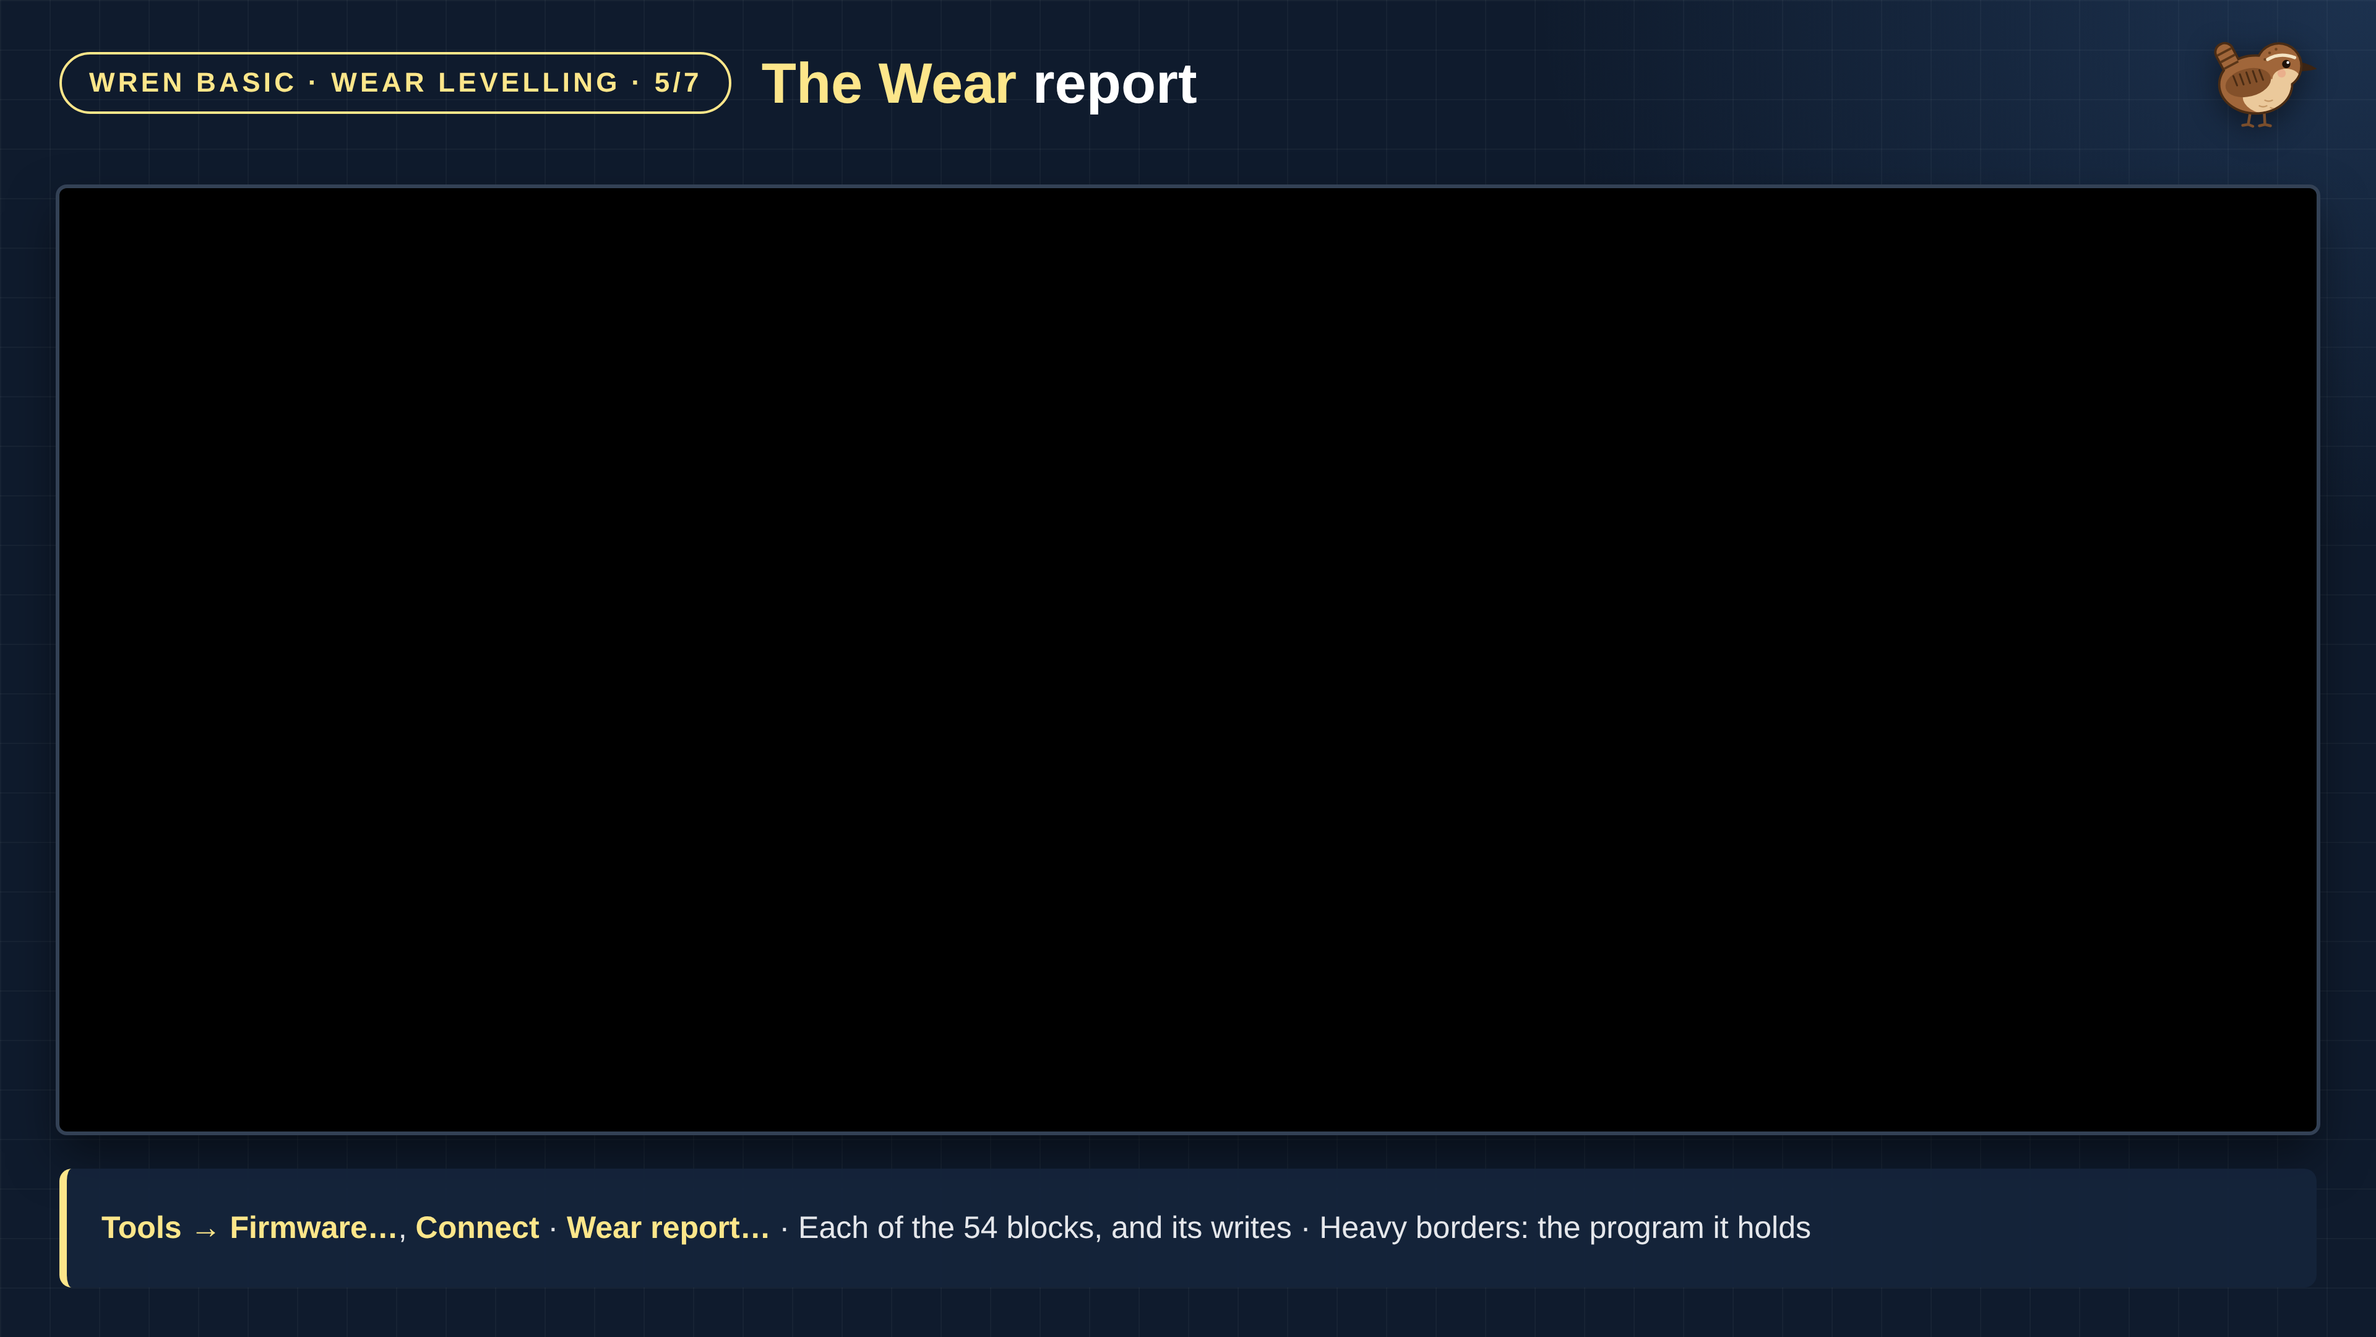
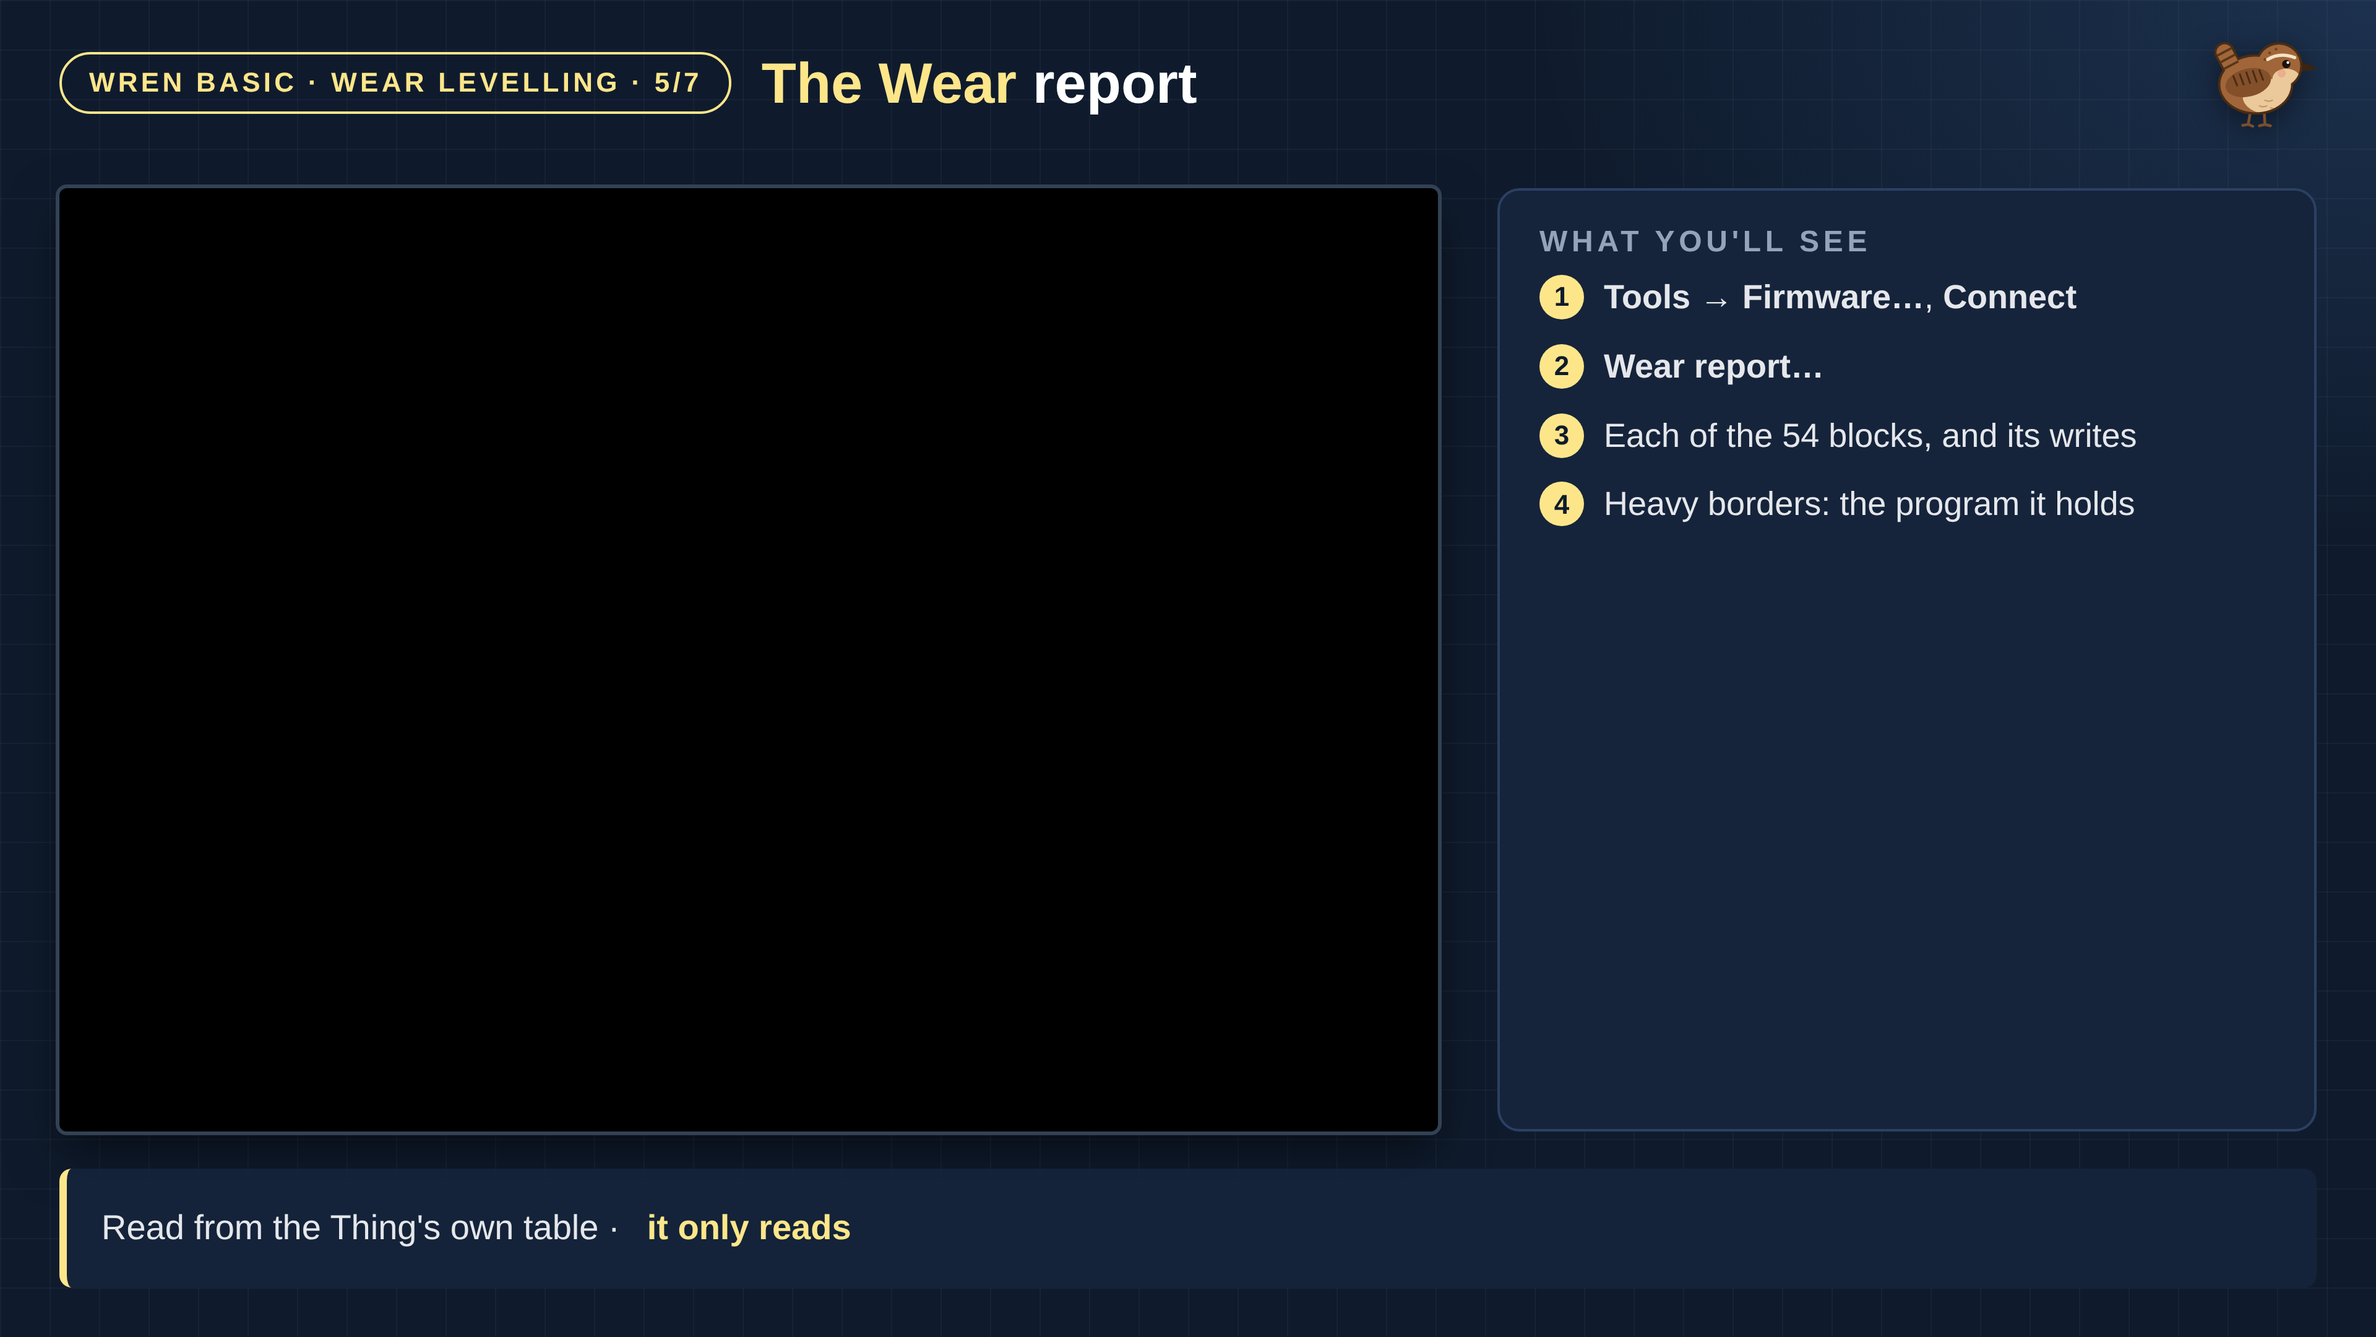
Videos: cut-aways with nothing to film keep the usual console frame and drop the camera frame, the card taking the right (videos 3, 4 and 5; the guide)
Claude-Session: https://claude.ai/code/session_01PM169opcHumrd8MpGp9RPP

Changed region(s): [[0.5938, 0.1241, 1.0, 0.8685], [0.0312, 0.8995, 0.75, 0.9306]]

diff --git a/docs/Videos/Infographics/Wren_04/Wren_04_03b_InsideMove.html b/docs/Videos/Infographics/Wren_04/Wren_04_03b_InsideMove.html
@@ -20,8 +20,8 @@
     - The scene: docs/Videos/Wren_04_Emulator.md. "In Move, 1 call deep": the Now panel's own
       wording (src/Wren/MainWindow.axaml.cs, NowDescription). Stopped on line 64, F11 goes into
       Taken at line 114 (2 calls deep); two F10s later c = 184, cell (29, 5).
-  A backdrop for OBS, for a scene on the emulator alone: one console frame the full width
-  (48, 152; 1824 x 762), black inside; no camera frame. What to do is in the strip.
+  A backdrop for OBS, for a scene with nothing worth filming: the console frame (48, 152; up to
+  1114 x 762), black inside, as on every backdrop; no camera frame, so the card takes the right.
 -->
 <html lang="en">
 <head>
@@ -129,8 +129,8 @@
   code { font-family: "DejaVu Sans Mono", Consolas, monospace; color: var(--basic); font-size: 22px; }
   .strip { position: absolute; left: 48px; right: 48px; top: 944px; height: 96px; display: flex; align-items: center; gap: 22px; padding: 0 28px; background: rgba(21, 36, 59, 0.92); border-left: 6px solid var(--gold); border-radius: 10px; font-size: 28px; }
   .strip b { color: var(--gold); }
-  .frame.wide { left: 48px; top: 152px; width: 1824px; height: 762px; }
-  .strip.steps { font-size: 25px; flex-wrap: wrap; gap: 10px 18px; line-height: 1.3; }
+  .see.tall { top: 152px; height: 762px; }
+  .see.tall li { font-size: 27px; margin-bottom: 22px; }
 </style>
 </head>
 <body>
@@ -193,8 +193,11 @@
   <circle cx="189.5" cy="102.5" r="3" fill="#FFFFFF" />
  </g>
 </svg><!--/WREN--></div>
-<div class="frame wide"></div>
-<div class="strip steps"><span>A breakpoint on line 68: <code>IF s &lt; bestScore</code> · <b>Variables</b>: <code>d</code>, <code>nx</code>, <code>ny</code>, <code>s</code>, <code>best</code> · <kbd>F5</kbd>: the next way, the next score · Line 64, <kbd>F11</kbd>: into <code>Taken</code>; <code>c</code>, the cell</span></div>
+<div class="frame console"></div>
+<div class="card see tall"><h2>WHAT YOU'LL SEE</h2><ol>
+<li>A breakpoint on line 68: <code>IF s &lt; bestScore</code></li><li><b>Variables</b>: <code>d</code>, <code>nx</code>, <code>ny</code>, <code>s</code>, <code>best</code></li><li><kbd>F5</kbd>: the next way, the next score</li><li>Line 64, <kbd>F11</kbd>: into <code>Taken</code>; <code>c</code>, the cell</li>
+</ol></div>
+<div class="strip"><b>Now</b> says where: <b>In Move, 1 call deep</b></div>
 <!--NAV--><a class="nav prev" href="Wren_04_03_Choose.html" aria-label="Previous slide"></a><a class="nav next" href="Wren_04_04_OneBit.html" aria-label="Next slide"></a><!--/NAV-->
 </body>
 </html>

diff --git a/docs/Videos/Infographics/Wren_05/Wren_05_03b_Uploading.html b/docs/Videos/Infographics/Wren_05/Wren_05_03b_Uploading.html
@@ -19,8 +19,8 @@
       blocks", blocks 9-16; back to the original: "Uploaded 502 bytes: 0 blocks written, 8 already
       in the store", blocks 0-7.
     - The scene: docs/Videos/Wren_05_Wear.md. A real Thing's first upload depends on what it held.
-  A backdrop for OBS, for a scene where only Wren's window matters: one console frame the full
-  width (48, 152; 1824 x 762), black inside; no camera frame. What to do is in the strip.
+  A backdrop for OBS, for a scene with nothing worth filming: the console frame (48, 152; up to
+  1114 x 762), black inside, as on every backdrop; no camera frame, so the card takes the right.
 -->
 <html lang="en">
 <head>
@@ -128,8 +128,8 @@
   code { font-family: "DejaVu Sans Mono", Consolas, monospace; color: var(--basic); font-size: 22px; }
   .strip { position: absolute; left: 48px; right: 48px; top: 944px; height: 96px; display: flex; align-items: center; gap: 22px; padding: 0 28px; background: rgba(21, 36, 59, 0.92); border-left: 6px solid var(--gold); border-radius: 10px; font-size: 28px; }
   .strip b { color: var(--gold); }
-  .frame.wide { left: 48px; top: 152px; width: 1824px; height: 762px; }
-  .strip.steps { font-size: 25px; flex-wrap: wrap; gap: 10px 18px; line-height: 1.3; }
+  .see.tall { top: 152px; height: 762px; }
+  .see.tall li { font-size: 27px; margin-bottom: 22px; }
 </style>
 </head>
 <body>
@@ -192,8 +192,11 @@
   <circle cx="189.5" cy="102.5" r="3" fill="#FFFFFF" />
  </g>
 </svg><!--/WREN--></div>
-<div class="frame wide"></div>
-<div class="strip steps"><span><code>OledThing.bas</code>, <kbd>Ctrl+F5</kbd>, and again · In <code>SUB Pip</code>: the first FILL's 4 → 5, <kbd>Ctrl+F5</kbd> · Back to 4, <kbd>Ctrl+F5</kbd> · <b>Messages</b>: what each upload wrote</span></div>
+<div class="frame console"></div>
+<div class="card see tall"><h2>WHAT YOU'LL SEE</h2><ol>
+<li><code>OledThing.bas</code>, <kbd>Ctrl+F5</kbd>, and again</li><li>In <code>SUB Pip</code>: the first FILL's 4 → 5, <kbd>Ctrl+F5</kbd></li><li>Back to 4, <kbd>Ctrl+F5</kbd></li><li><b>Messages</b>: what each upload wrote</li>
+</ol></div>
+<div class="strip">1 block written, 7 already in the store · <b>0 blocks written, 8 already in the store</b></div>
 <!--NAV--><a class="nav prev" href="Wren_05_03_OnlyChanged.html" aria-label="Previous slide"></a><a class="nav next" href="Wren_05_04_Table.html" aria-label="Next slide"></a><!--/NAV-->
 </body>
 </html>

diff --git a/docs/Videos/Infographics/Wren_05/Wren_05_05b_WearReport.html b/docs/Videos/Infographics/Wren_05/Wren_05_05b_WearReport.html
@@ -13,8 +13,8 @@
     - The scene: docs/Videos/Wren_05_Wear.md. The window: src/Wren/WearWindow.axaml ("each of the 54
       store blocks ($9280-$9FFF) with the times it has been written ... Blocks with a heavy border
       hold the current program"); docs/PicoLink.md (Wear report... reads only).
-  A backdrop for OBS, for a scene where only Wren's window matters: one console frame the full
-  width (48, 152; 1824 x 762), black inside; no camera frame. What to do is in the strip.
+  A backdrop for OBS, for a scene with nothing worth filming: the console frame (48, 152; up to
+  1114 x 762), black inside, as on every backdrop; no camera frame, so the card takes the right.
 -->
 <html lang="en">
 <head>
@@ -122,8 +122,8 @@
   code { font-family: "DejaVu Sans Mono", Consolas, monospace; color: var(--basic); font-size: 22px; }
   .strip { position: absolute; left: 48px; right: 48px; top: 944px; height: 96px; display: flex; align-items: center; gap: 22px; padding: 0 28px; background: rgba(21, 36, 59, 0.92); border-left: 6px solid var(--gold); border-radius: 10px; font-size: 28px; }
   .strip b { color: var(--gold); }
-  .frame.wide { left: 48px; top: 152px; width: 1824px; height: 762px; }
-  .strip.steps { font-size: 25px; flex-wrap: wrap; gap: 10px 18px; line-height: 1.3; }
+  .see.tall { top: 152px; height: 762px; }
+  .see.tall li { font-size: 27px; margin-bottom: 22px; }
 </style>
 </head>
 <body>
@@ -186,8 +186,11 @@
   <circle cx="189.5" cy="102.5" r="3" fill="#FFFFFF" />
  </g>
 </svg><!--/WREN--></div>
-<div class="frame wide"></div>
-<div class="strip steps"><span><b>Tools → Firmware…</b>, <b>Connect</b> · <b>Wear report…</b> · Each of the 54 blocks, and its writes · Heavy borders: the program it holds</span></div>
+<div class="frame console"></div>
+<div class="card see tall"><h2>WHAT YOU'LL SEE</h2><ol>
+<li><b>Tools → Firmware…</b>, <b>Connect</b></li><li><b>Wear report…</b></li><li>Each of the 54 blocks, and its writes</li><li>Heavy borders: the program it holds</li>
+</ol></div>
+<div class="strip">Read from the Thing's own table · <b>it only reads</b></div>
 <!--NAV--><a class="nav prev" href="Wren_05_05_LeastWritten.html" aria-label="Previous slide"></a><a class="nav next" href="Wren_05_06_HowFar.html" aria-label="Next slide"></a><!--/NAV-->
 </body>
 </html>

diff --git a/docs/Videos/Infographics/Wren_04/Wren_04_06b_LastMove.html b/docs/Videos/Infographics/Wren_04/Wren_04_06b_LastMove.html
@@ -12,8 +12,8 @@
   Sources:
     - Snake.bas: programs/OledThing/Snake.bas; 834 bytes in 14 blocks (Wren's compiler).
     - The scene: docs/Videos/Wren_04_Emulator.md.
-  A backdrop for OBS, for a scene on the emulator alone: one console frame the full width
-  (48, 152; 1824 x 762), black inside; no camera frame. What to do is in the strip.
+  A backdrop for OBS, for a scene with nothing worth filming: the console frame (48, 152; up to
+  1114 x 762), black inside, as on every backdrop; no camera frame, so the card takes the right.
 -->
 <html lang="en">
 <head>
@@ -121,8 +121,8 @@
   code { font-family: "DejaVu Sans Mono", Consolas, monospace; color: var(--basic); font-size: 22px; }
   .strip { position: absolute; left: 48px; right: 48px; top: 944px; height: 96px; display: flex; align-items: center; gap: 22px; padding: 0 28px; background: rgba(21, 36, 59, 0.92); border-left: 6px solid var(--gold); border-radius: 10px; font-size: 28px; }
   .strip b { color: var(--gold); }
-  .frame.wide { left: 48px; top: 152px; width: 1824px; height: 762px; }
-  .strip.steps { font-size: 25px; flex-wrap: wrap; gap: 10px 18px; line-height: 1.3; }
+  .see.tall { top: 152px; height: 762px; }
+  .see.tall li { font-size: 27px; margin-bottom: 22px; }
 </style>
 </head>
 <body>
@@ -185,8 +185,11 @@
   <circle cx="189.5" cy="102.5" r="3" fill="#FFFFFF" />
  </g>
 </svg><!--/WREN--></div>
-<div class="frame wide"></div>
-<div class="strip steps"><span>A breakpoint on line 76: <code>GameOver</code> · <kbd>F5</kbd>, and wait for the trap · The screen: the trap it built · <kbd>F11</kbd>: into <code>GameOver</code></span></div>
+<div class="frame console"></div>
+<div class="card see tall"><h2>WHAT YOU'LL SEE</h2><ol>
+<li>A breakpoint on line 76: <code>GameOver</code></li><li><kbd>F5</kbd>, and wait for the trap</li><li>The screen: the trap it built</li><li><kbd>F11</kbd>: into <code>GameOver</code></li>
+</ol></div>
+<div class="strip">The wait is cut in the edit · <b>best = −1</b></div>
 <!--NAV--><a class="nav prev" href="Wren_04_06_CatchEnd.html" aria-label="Previous slide"></a><a class="nav next" href="Wren_04_07_NoBoard.html" aria-label="Next slide"></a><!--/NAV-->
 </body>
 </html>

diff --git a/docs/Videos/Infographics/Wren_04/Wren_04_02b_Snake.html b/docs/Videos/Infographics/Wren_04/Wren_04_02b_Snake.html
@@ -12,8 +12,8 @@
   Sources:
     - Snake.bas: programs/OledThing/Snake.bas; 834 bytes in 14 blocks (Wren's compiler).
     - The scene: docs/Videos/Wren_04_Emulator.md.
-  A backdrop for OBS, for a scene on the emulator alone: one console frame the full width
-  (48, 152; 1824 x 762), black inside; no camera frame. What to do is in the strip.
+  A backdrop for OBS, for a scene with nothing worth filming: the console frame (48, 152; up to
+  1114 x 762), black inside, as on every backdrop; no camera frame, so the card takes the right.
 -->
 <html lang="en">
 <head>
@@ -121,8 +121,8 @@
   code { font-family: "DejaVu Sans Mono", Consolas, monospace; color: var(--basic); font-size: 22px; }
   .strip { position: absolute; left: 48px; right: 48px; top: 944px; height: 96px; display: flex; align-items: center; gap: 22px; padding: 0 28px; background: rgba(21, 36, 59, 0.92); border-left: 6px solid var(--gold); border-radius: 10px; font-size: 28px; }
   .strip b { color: var(--gold); }
-  .frame.wide { left: 48px; top: 152px; width: 1824px; height: 762px; }
-  .strip.steps { font-size: 25px; flex-wrap: wrap; gap: 10px 18px; line-height: 1.3; }
+  .see.tall { top: 152px; height: 762px; }
+  .see.tall li { font-size: 27px; margin-bottom: 22px; }
 </style>
 </head>
 <body>
@@ -185,8 +185,11 @@
   <circle cx="189.5" cy="102.5" r="3" fill="#FFFFFF" />
  </g>
 </svg><!--/WREN--></div>
-<div class="frame wide"></div>
-<div class="strip steps"><span><code>Snake.bas</code>, <kbd>F5</kbd> · The board column: the OLED, full size · <b>Now</b>: Running · Nothing is written to a real chip</span></div>
+<div class="frame console"></div>
+<div class="card see tall"><h2>WHAT YOU'LL SEE</h2><ol>
+<li><code>Snake.bas</code>, <kbd>F5</kbd></li><li>The board column: the OLED, full size</li><li><b>Now</b>: Running</li><li>Nothing is written to a real chip</li>
+</ol></div>
+<div class="strip">The emulator: <b>Debug → Target → Emulator</b></div>
 <!--NAV--><a class="nav prev" href="Wren_04_02_Touch.html" aria-label="Previous slide"></a><a class="nav next" href="Wren_04_03_Choose.html" aria-label="Next slide"></a><!--/NAV-->
 </body>
 </html>

diff --git a/docs/Videos/Infographics/Wren_03/Wren_03_03b_Emulator.html b/docs/Videos/Infographics/Wren_03/Wren_03_03b_Emulator.html
@@ -13,8 +13,8 @@
     - Stopwatch.bas: programs/OledThing/Stopwatch.bas; 348 bytes in 6 blocks, 10 bytes of
       variables (Wren's compiler); its test is DemoTests.TheStopwatchKeepsTimeAndRemembersTheBest.
     - The scene: docs/Videos/Wren_03_Basic.md.
-  A backdrop for OBS: the console frame (48, 152; up to 1114 x 762) and the camera frame
-  (1210, 152; 662 x 372) are black inside; every backdrop keeps them in place.
+  A backdrop for OBS, for a scene with nothing worth filming: the console frame (48, 152; up to
+  1114 x 762), black inside, as on every backdrop; no camera frame, so the card takes the right.
 -->
 <html lang="en">
 <head>
@@ -122,6 +122,8 @@
   code { font-family: "DejaVu Sans Mono", Consolas, monospace; color: var(--basic); font-size: 22px; }
   .strip { position: absolute; left: 48px; right: 48px; top: 944px; height: 96px; display: flex; align-items: center; gap: 22px; padding: 0 28px; background: rgba(21, 36, 59, 0.92); border-left: 6px solid var(--gold); border-radius: 10px; font-size: 28px; }
   .strip b { color: var(--gold); }
+  .see.tall { top: 152px; height: 762px; }
+  .see.tall li { font-size: 27px; margin-bottom: 22px; }
 </style>
 </head>
 <body>
@@ -185,8 +187,7 @@
  </g>
 </svg><!--/WREN--></div>
 <div class="frame console"></div>
-<div class="frame camera"></div>
-<div class="card see"><h2>WHAT YOU'LL SEE</h2><ol>
+<div class="card see tall"><h2>WHAT YOU'LL SEE</h2><ol>
 <li><code>Stopwatch.bas</code>, <kbd>F5</kbd></li><li>Pull <b>PD3</b> low and let go: start; again: stop</li><li>The same with <b>PD2</b>: back to 0</li><li>A best time, in the bottom corner</li>
 </ol></div>
 <div class="strip">PD3 and PD2 are the buttons · the best time lives in the <b>EEPROM</b></div>

diff --git a/docs/How_We_Make_Videos.md b/docs/How_We_Make_Videos.md
@@ -219,10 +219,10 @@ of them with only the image swapped:
 | console | 48, 152 | up to 1114 × 762 |
 | camera | 1210, 152 | 662 × 372, 16:9 |
 
-**A scene where nothing on the board matters** (the emulator, or a
-scene about what Wren's own windows report) has no camera: its backdrop
-has one console frame the full width of the slide (48, 152; 1824 × 762),
-and what to do goes in the strip beneath it instead of a card.
+**A scene with nothing worth filming** (the emulator, or a scene about
+what Wren's own windows report) leaves the camera frame out: the console
+frame stays where and as big as it always is, and the "what you'll see"
+card takes the whole right-hand column.
 
 The frames are black inside, so a source scaled to fit leaves no
 border. In an animated set a backdrop is a page in the sequence and
